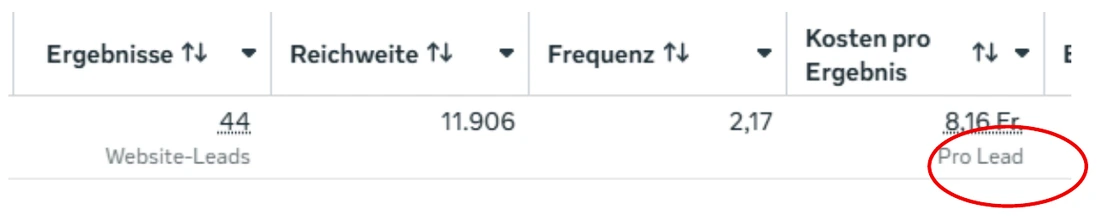
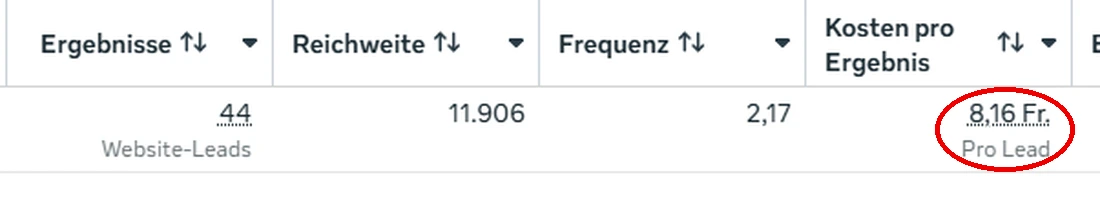
Track Record als Navy-Trenner unter den Hero, Termin-Zwischenstufe in der Sub, Sach-Markierung korrigiert, 3 Mockups eingebaut

diff --git a/makler.html b/makler.html
@@ -282,6 +282,13 @@
     .price-note{margin-top:34px;text-align:center;font-size:.96rem;color:var(--navy-70);max-width:64ch;margin-left:auto;margin-right:auto}
     .price-note b{color:var(--navy)}
 
+    /* ===== Mockups ===== */
+    .mockup{margin:52px auto 0;max-width:900px}
+    .mockup img{width:100%;height:auto;border-radius:16px;box-shadow:0 30px 70px rgba(20,22,58,.20)}
+    .bg-dark .mockup img{box-shadow:0 30px 70px rgba(0,0,0,.45)}
+    .mockup figcaption{margin-top:14px;text-align:center;font-size:.88rem;color:var(--navy-55)}
+    .bg-dark .mockup figcaption{color:var(--white-72)}
+
     /* ===== Kundenergebnisse ===== */
     .erg-grid{display:grid;grid-template-columns:repeat(2,1fr);gap:22px;margin-top:50px}
     .erg-card{background:var(--navy);border:1px solid var(--navy);border-radius:16px;padding:24px 24px 22px;box-shadow:0 18px 44px rgba(20,22,58,.18);display:flex;flex-direction:column;color:#fff}
@@ -298,11 +305,11 @@
 
     /* ===== Stats ===== */
     .stats-head{text-align:center;max-width:60ch;margin:0 auto}
-    .stats-head h2{font-weight:800;font-size:clamp(1.9rem,4vw,2.8rem);line-height:1.1}
+    .stats-head h2{font-weight:800;font-size:clamp(1.9rem,4vw,2.8rem);line-height:1.1;color:#fff}
     .stats-grid{display:grid;grid-template-columns:repeat(4,1fr);gap:20px;margin-top:50px}
-    .stat{background:var(--navy);border-radius:16px;padding:34px 26px;color:#fff;box-shadow:0 18px 44px rgba(20,22,58,.16)}
-    .stat b{display:block;font-size:clamp(2rem,3.6vw,2.7rem);font-weight:800;color:var(--champagne);letter-spacing:-.01em;line-height:1}
-    .stat span{display:block;margin-top:12px;font-size:.92rem;color:rgba(255,255,255,.82);font-weight:500}
+    .stat{background:#fff;border-radius:16px;padding:34px 26px;color:var(--navy);box-shadow:0 18px 44px rgba(0,0,0,.22)}
+    .stat b{display:block;font-size:clamp(2rem,3.6vw,2.7rem);font-weight:800;letter-spacing:-.01em;line-height:1;background:var(--cobalt-metallic);-webkit-background-clip:text;background-clip:text;color:transparent}
+    .stat span{display:block;margin-top:12px;font-size:.92rem;color:var(--navy-70);font-weight:500}
 
     /* ===== Testimonials ===== */
     .testi-grid{display:grid;grid-template-columns:repeat(3,1fr);gap:22px;margin-top:48px}
@@ -479,7 +486,7 @@
         <div class="hero-txt">
           <span class="hero-eyebrow"><span class="eb-txt">Für Versicherungsmakler<span class="dtonly"> &amp; Maklerbüros</span></span></span>
           <h1>Monatsanfang und du hast schon <span class="accent-cobalt">5 Termine</span> mit abschlussbereiten Kunden.</h1>
-          <p class="sub">Am Monatsende sind daraus 5 bis 7 Abschlüsse geworden. Und im nächsten Monat wieder, weil das System läuft und nicht von Empfehlungen abhängt. Sterbegeld, BU, Sach, Zahnzusatz, Motorrad und Kindervorsorge.</p>
+          <p class="sub">Am Monatsende sind daraus 15 bis 20 Termine und 5 bis 7 Abschlüsse geworden. Und im nächsten Monat wieder, weil das System läuft und nicht von Empfehlungen abhängt. Sterbegeld, BU, Sach, Zahnzusatz, Motorrad und Kindervorsorge.</p>
           <div class="hero-ohne">
             <span>Ohne Leadkauf</span><span>Ohne Kaltakquise</span>
           </div>
@@ -513,6 +520,22 @@
           <img class="miri" fetchpriority="high" src="assets/team/miri_transparent.webp" alt="Miriam Ochs — Gründerin von ochsocial">
           <div class="miri-tag">Miriam Ochs <span>· Gründerin</span></div>
         </div>
+      </div>
+    </div>
+  </section>
+
+  <!-- ===== Track Record (navy, Trenner unter dem Hero) ===== -->
+  <section class="sec bg-dark">
+    <div class="wrap">
+      <div class="stats-head">
+        <span class="eyebrow">Track Record</span>
+        <h2>Zahlen, die <span class="accent-cobalt">zeigen</span>,<br>dass unser System funktioniert.</h2>
+      </div>
+      <div class="stats-grid">
+        <div class="stat"><b>1 Mio. &euro;+</b><span>Werbebudget profitabel verwaltet</span></div>
+        <div class="stat"><b>450+</b><span>Unternehmen erfolgreich begleitet</span></div>
+        <div class="stat"><b>43.000+</b><span>Qualifizierte Anfragen generiert</span></div>
+        <div class="stat"><b>Seit 2021</b><span>Meta Ads &amp; Funnels mit System</span></div>
       </div>
     </div>
   </section>
@@ -632,6 +655,10 @@
           </ul>
         </div>
       </div>
+      <figure class="mockup">
+        <img src="assets/cases/mock_anfrage.webp" alt="Benachrichtigung über eine neue qualifizierte Anfrage: Bedarf bestätigt, Terminwunsch vorhanden, Kontakt freigegeben" loading="lazy">
+        <figcaption>So kommt eine Anfrage bei dir an: geprüft, exklusiv und mit Terminwunsch.</figcaption>
+      </figure>
     </div>
   </section>
 
@@ -684,6 +711,10 @@
           <p>Jede Anfrage durchläuft unsere Qualifizierung. Wer passt, bucht sich direkt einen Termin bei dir. Wer nicht passt, kostet dich keine Minute.</p>
         </div>
       </div>
+      <figure class="mockup">
+        <img src="assets/cases/mock_dashboard.webp" alt="Anfragen-Dashboard mit täglichen Anfragen pro Sparte und WhatsApp-Verlauf einer eingehenden Anfrage" loading="lazy">
+        <figcaption>Dein Überblick: welche Sparte wie viele Anfragen liefert, und was sie kostet.</figcaption>
+      </figure>
       <div class="cta-inline"><a href="#preise" class="btn">Pakete &amp; Preise ansehen <span class="arw">&rarr;</span></a></div>
     </div>
   </section>
@@ -826,6 +857,10 @@
         <h2>Was unsere Makler-Kampagnen <span class="accent-cobalt">tatsächlich liefern</span></h2>
         <p>Direkt aus dem Werbekonto, ohne Nachbearbeitung. Vier Beispiele aus Sparten, die wir auch für dich fahren.</p>
       </div>
+      <figure class="mockup">
+        <img src="assets/cases/mock_sterbegeld.webp" alt="Auswertung einer Sterbegeld-Kampagne: 265 Leads zu 5,24 Euro pro Lead" loading="lazy">
+        <figcaption>Sterbegeld für die HanseMerkur, Auswertung aus einer weiteren Kampagnenphase.</figcaption>
+      </figure>
       <div class="erg-grid">
         <div class="erg-card">
           <div class="erg-top"><h3>Kindervorsorge</h3><span class="vs">ERGO</span></div>
@@ -869,24 +904,8 @@
     </div>
   </section>
 
-  <!-- ===== Zahlen / Stats (offwhite) ===== -->
+  <!-- ===== Testimonials (offwhite) ===== -->
   <section class="sec bg-off">
-    <div class="wrap">
-      <div class="stats-head">
-        <span class="eyebrow">Track Record</span>
-        <h2>Zahlen, die <span class="accent-cobalt">zeigen</span>,<br>dass unser System funktioniert.</h2>
-      </div>
-      <div class="stats-grid">
-        <div class="stat"><b>1 Mio. &euro;+</b><span>Werbebudget profitabel verwaltet</span></div>
-        <div class="stat"><b>450+</b><span>Unternehmen erfolgreich begleitet</span></div>
-        <div class="stat"><b>43.000+</b><span>Qualifizierte Anfragen generiert</span></div>
-        <div class="stat"><b>Seit 2021</b><span>Meta Ads &amp; Funnels mit System</span></div>
-      </div>
-    </div>
-  </section>
-
-  <!-- ===== Testimonials (white) ===== -->
-  <section class="sec bg-white">
     <div class="wrap">
       <div class="sec-head center">
         <span class="eyebrow">Stimmen aus der Zusammenarbeit</span>